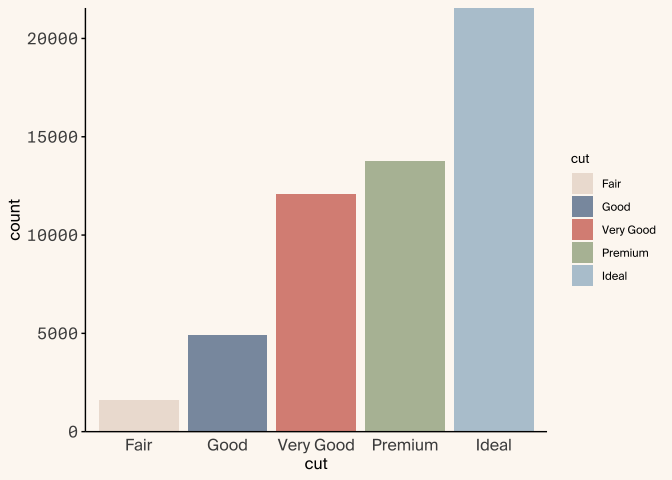
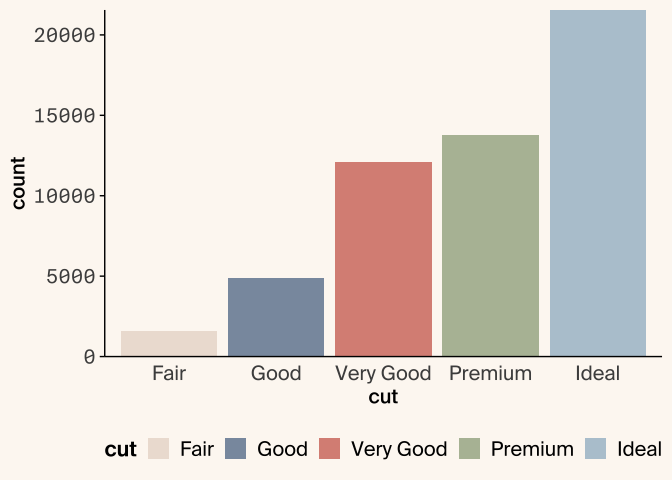
font families/sizes fixed, started document of before/after examples and plots

diff --git a/inst/before-after-examples.md b/inst/before-after-examples.md
@@ -1,0 +1,73 @@
+
+# Before/After Examples
+
+This RMarkdown shows examples of before/after plots to demonstrate how
+the arcadiathemeR works to help adhere to our style guidelines.
+
+``` r
+library(ggplot2)
+library(arcadiathemeR)
+
+# base plot
+ggplot(data=iris, aes(x=Sepal.Length, y=Sepal.Width, color=Species)) +
+  geom_point(size=2.5)
+```
+
+![](figures/before-after-sepal_width-1.png)<!-- -->
+
+``` r
+# with arcadiathemeR
+ggplot(data=iris, aes(x=Sepal.Length, y=Sepal.Width, color=Species)) +
+  geom_point(size=2.5) +
+  theme_arcadia(x_axis_type = "numerical") +
+  scale_color_arcadia("primary")
+```
+
+![](figures/before-after-sepal_width-2.png)<!-- -->
+
+``` r
+ggplot(data=iris, aes(x=Species, y=Sepal.Width, fill=Species)) +
+  geom_violin()
+```
+
+![](figures/before-after-violin_plot-1.png)<!-- -->
+
+``` r
+# with arcadiathemeR
+ggplot(data=iris, aes(x=Species, y=Sepal.Width, fill=Species)) +
+  geom_violin() +
+  theme_arcadia(x_axis_type = "categorical") +
+  scale_fill_arcadia() +
+  theme(legend.position = "none")
+```
+
+![](figures/before-after-violin_plot-2.png)<!-- -->
+
+``` r
+library(reshape2)
+
+# heatmap of correlation matrix from iris dataset
+data(iris)
+iris_data <- iris[, 1:4]
+cor_matrix <- cor(iris_data)
+melted_cor_matrix <- (melt(cor_matrix))
+
+ggplot(melted_cor_matrix, aes(x=Var1, y=Var2, fill=value)) +
+  geom_tile()
+```
+
+![](figures/before-after-heatmap_plot-1.png)<!-- -->
+
+``` r
+
+# with arcadiathemeR
+ggplot(melted_cor_matrix, aes(x=Var1, y=Var2, fill=value)) +
+  geom_tile() +
+  theme_arcadia(x_axis_type = "categorical", y_axis_type = "categorical") +
+  gradient_fill_arcadia("reds") + 
+  theme(axis.text.x = element_text(angle = 45, hjust = 1),
+        legend.position = "top") +
+  labs(x = "", y = "")
+```
+
+![](figures/before-after-heatmap_plot-2.png)<!-- -->

diff --git a/README.md b/README.md
@@ -50,7 +50,8 @@ ggplot(data=diamonds, aes(x=cut, fill=cut)) +
   geom_bar() +
   theme_arcadia(x_axis_type = "categorical") +
   scale_fill_arcadia("secondary", reverse = TRUE) +
-  scale_y_continuous(expand=c(0,0)) # removes whitespace between axis and bars
+  scale_y_continuous(expand=c(0,0)) + # removes whitespace between axis and bars
+  theme(legend.position = "bottom")
 ```
 
 ![](man/figures/README-categorical_plot-1.png)<!-- -->
